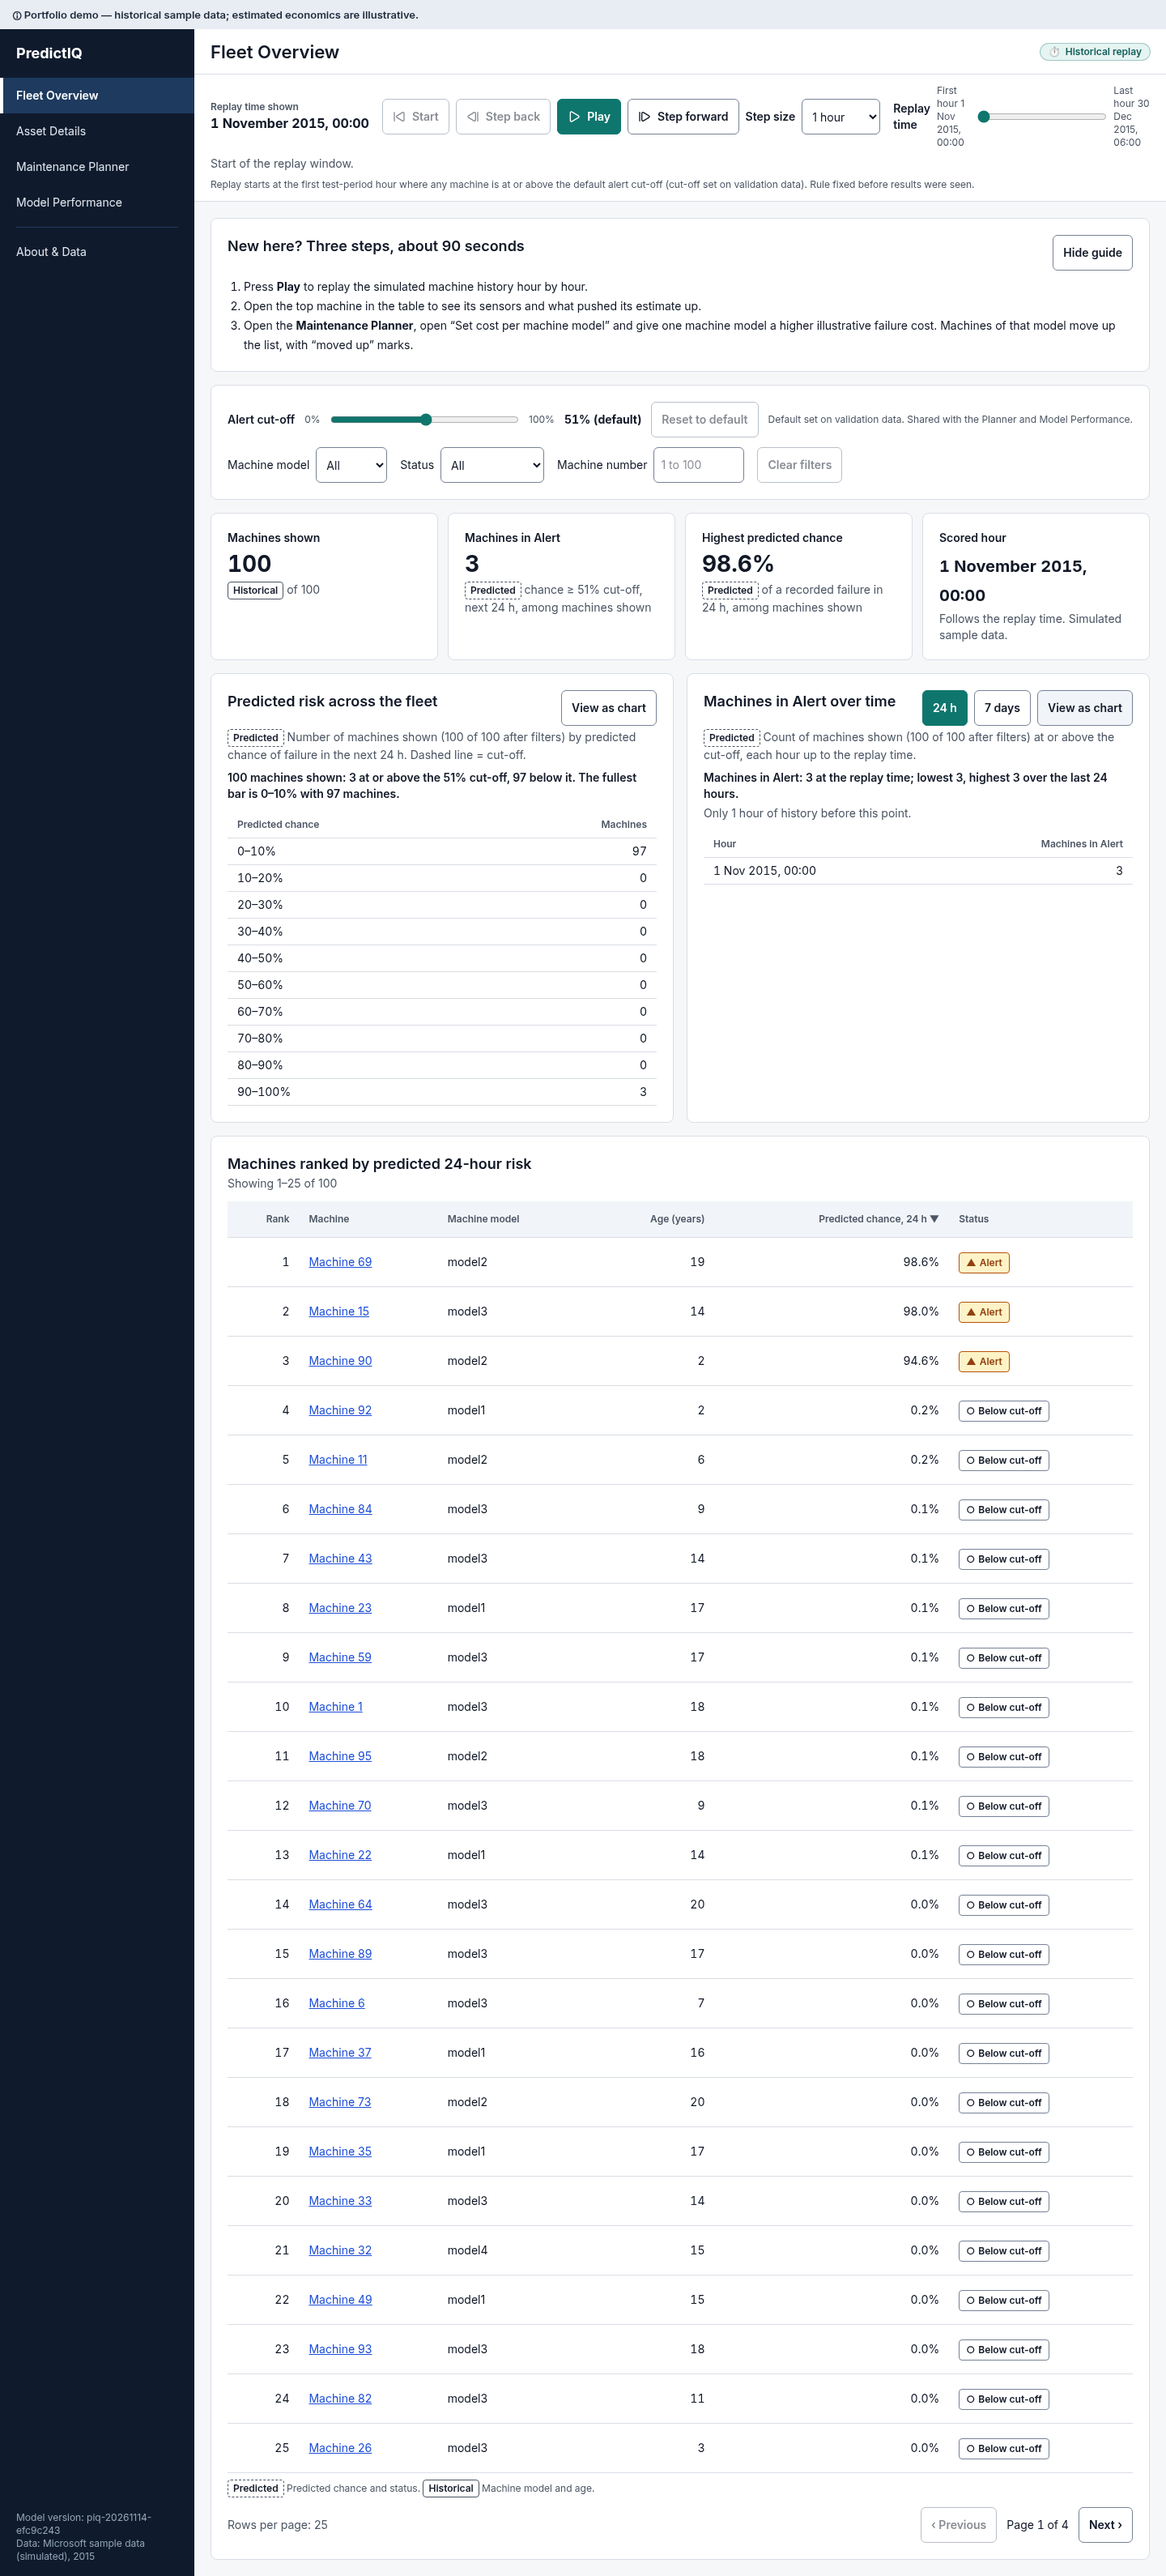
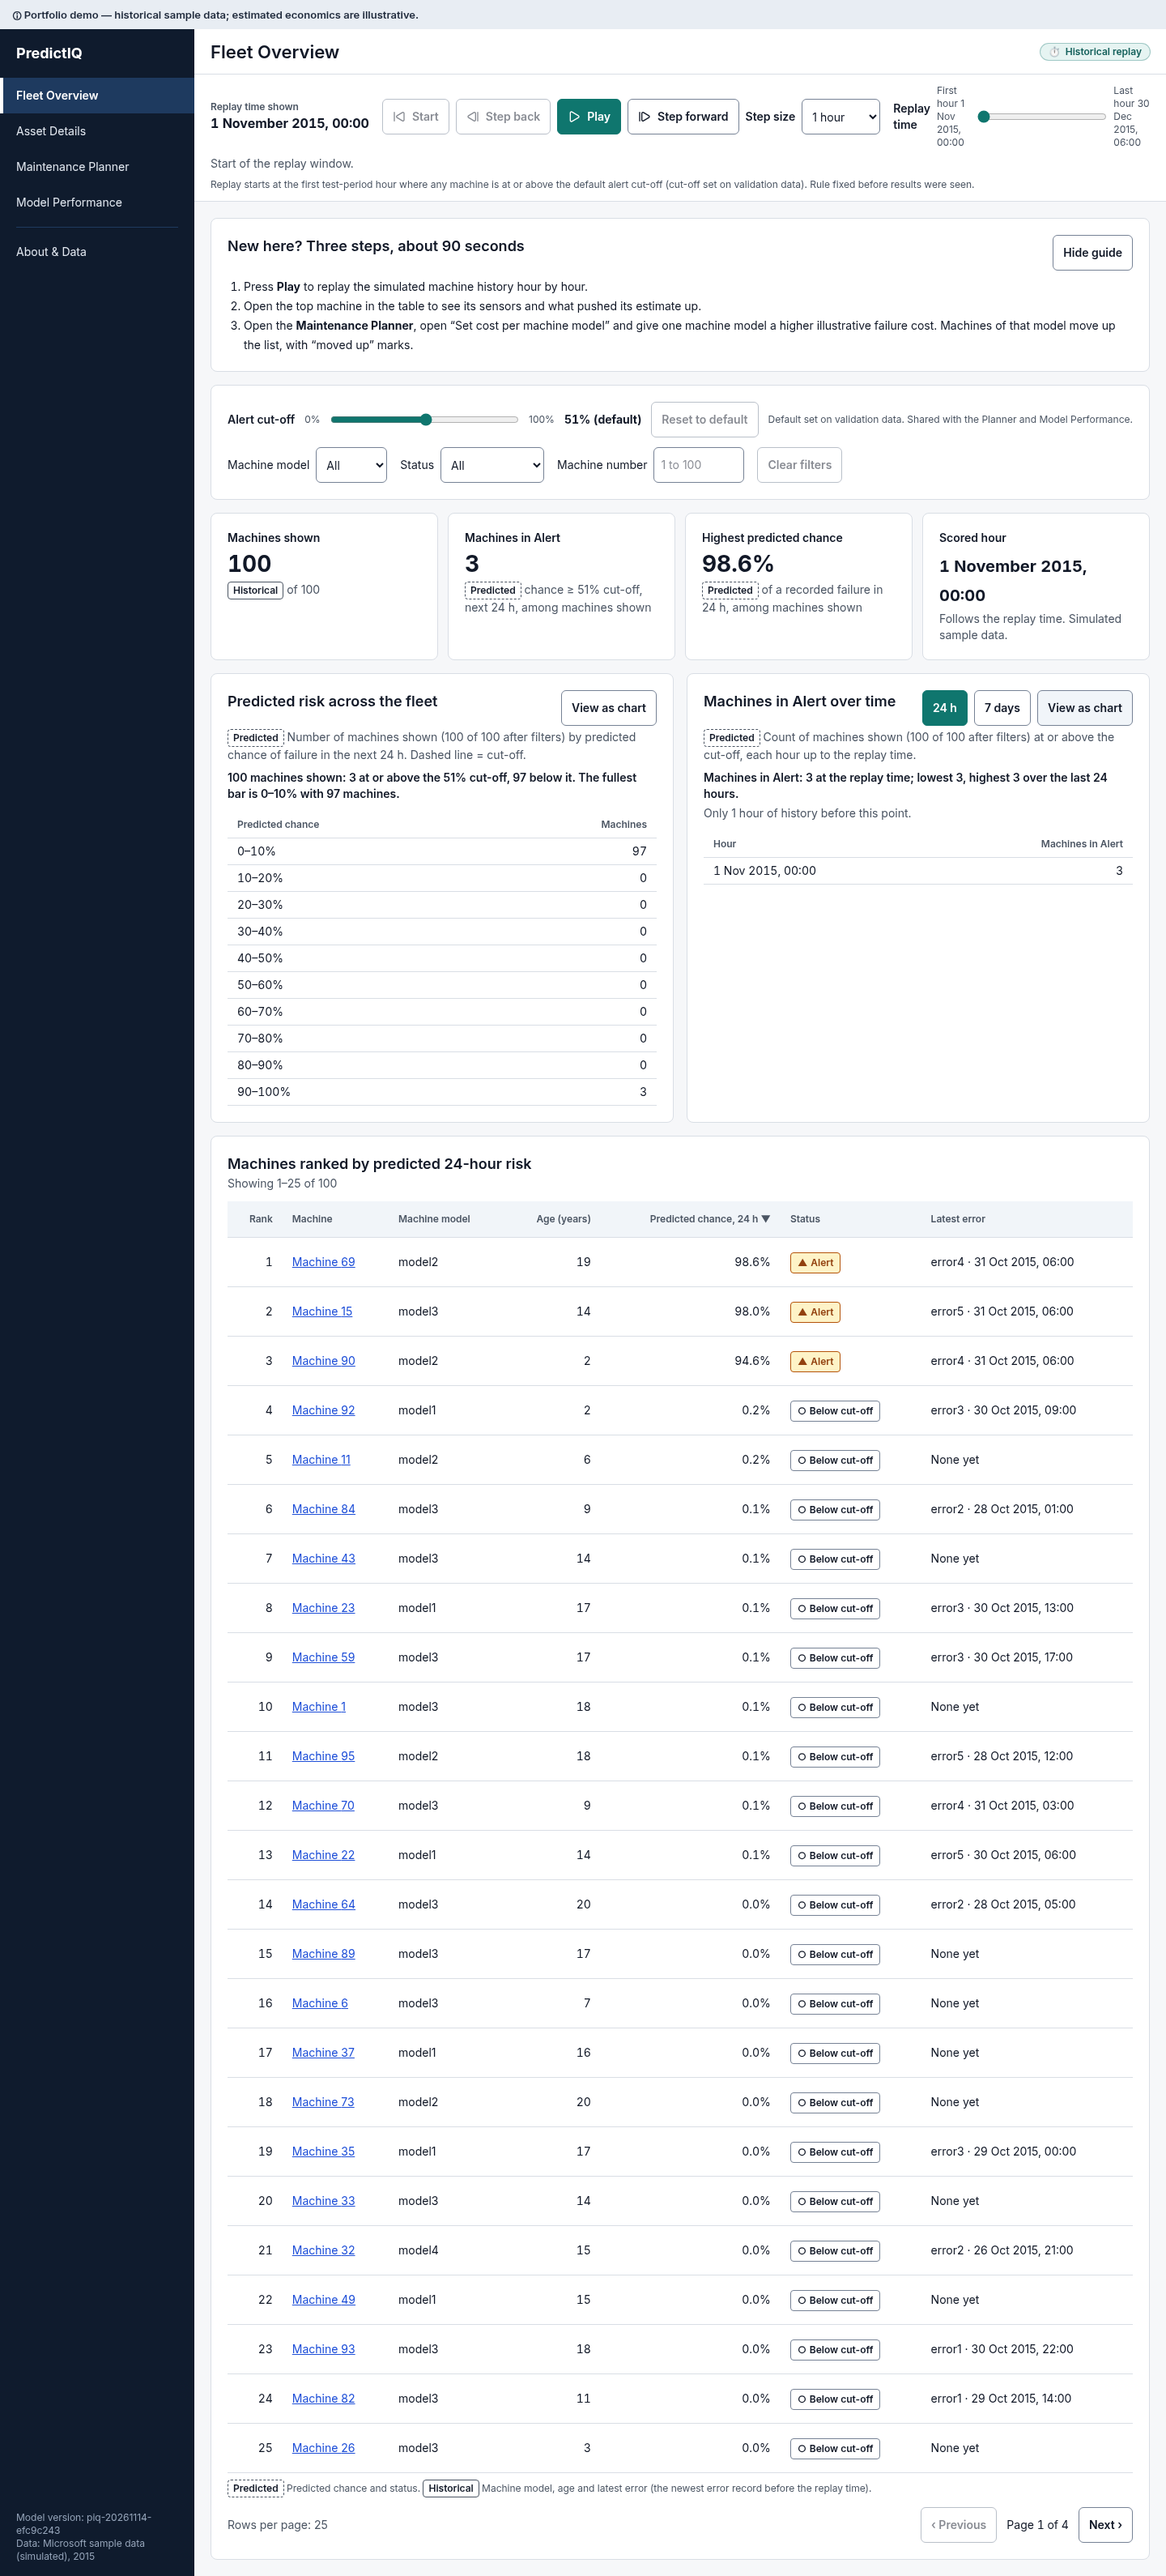
docs and screenshots: full Stage 3 set from the real bundle, README, status and tasks

diff --git a/STATUS.md b/STATUS.md
@@ -1,6 +1,6 @@
 # Status
 
-_Updated 2026-11-14, Stage 3 (core screens) session 1 of 3 done on branch `core-screens`._
+_Updated 2026-11-14, Stage 3 (core screens) session 3 of 3 done on branch `core-screens`._
 
 ## Current stage
 **Data-and-model stage built and reviewed, on branch `data-model`; waiting for the owner to review and merge.** The project skeleton was merged by Meysam (Owner) on 14 Nov 2026 at 8:08 AM ET.
@@ -63,6 +63,23 @@ _Updated 2026-11-14, Stage 3 (core screens) session 1 of 3 done on branch `core-
 - Arrow-key stepping through chart points is not built; the text summary and "View as table" carry the same values.
 - The cut-off control sits on Fleet Overview only for now (Planner and Model Performance will reuse the component).
 **Next:** session 3 (Asset Details body).
+**Blockers:** none.
+
+## Core screens, session 3 of 3: Asset Details, About & Data, latest error (branch `core-screens`, 14 Nov 2026)
+**Done:**
+- **Asset Details** at `/asset-details` on `/assets/{id}`, `/telemetry` and `/explanation`. The machine comes from `?machine=` or the picker (a native list of "Machine n · model", which also does type-ahead); the replay time and cut-off carry over. It shows machine model and age, the predicted chance and status at the replay hour and cut-off, the score factors (top 8 plus "all other inputs combined", each with a plain name, a raises/lowers word, a bar and a signed push in log-odds, an ⓘ definition, and the line "These are patterns the model found in the data, not causes. They are not repair advice." always visible), four sensor charts (24 h / 7 days; markers differ by shape: ◆ recorded failure, ■ repair, ▲ error), past estimates beside recorded failures (labelled simulated, cut-off dashed), and lists of errors, repairs and recorded failures. Every list and chart stops before the replay hour, and the page filters again so a record at or after it can never show. Every chart has a text summary and "View as table"; on a phone the sensors become tabs (arrow keys move between them).
+- **States:** no machine chosen, machine not found (1 to 100 message, selector, link to Fleet), loading (grey blocks), one panel failed with Try again (sensor history, machine record, explanation, each alone), no model data, replay start and end (the replay bar), and "Only n hours of history" at the start.
+- **Fleet "Latest error" column:** the wireframe has it, the experience spec's text does not list table columns, but the bundle has the error records, so I added it. `/fleet` rows gain `latest_error` (newest error type and hour, strictly before `at`, from all records, or null; two errors in one hour: the one recorded last). Tested against the saved records on the synthetic bundle and, opt-in, the real one. Largest `/fleet` answer is 15,452 bytes, far under the 256 KB cap. The table shows it ("None yet" when null).
+- **About & Data** rewritten to the current state: two trained models, saved scores for a held-out later period, Fleet Overview and Asset Details work, Planner and Model Performance not built yet, nothing live. Model version, build date, default cut-off and replay window are read from `/metadata`; "—" with a short note if it can't be read.
+- **Replay control** covered on this screen by e2e: "Historical replay" wording, never "live", clean stop at the end (nothing later, never wraps, Play and Step forward unavailable but focusable), Jump to start, and the start state.
+- **Screenshots:** the full set (Fleet Overview, Asset Details, About & Data) re-taken from the real bundle into `docs/QA_REPORTS/stage3-screenshots/`, with a plain-English `README.md`. `node scripts/screenshots.mjs --real --stage3` makes them.
+**Results (real output, this machine):** frontend lint and typecheck clean; Vitest 103 passed; build passes; Playwright synthetic 45 passed (+2 opt-in skipped) and 7 with no bundle; Playwright real bundle 47 passed (includes `asset-real.spec.ts`: the screen's score, status, model and list sizes equal the API at three machine/hour/cut-off cases); pytest 154 passed (backend and ml; the 9 opt-in real-bundle tests were also run for the backend and pass).
+**Worth knowing:**
+- The e2e data service now starts with `--timeout-keep-alive 75`. Without it, parallel runs sometimes hung for minutes: Next's local proxy and uvicorn both used 5 seconds for idle connections. It only affects the local test stack; Vercel has no such proxy.
+- The service sends 7 days of errors and repairs, so those lists say "7 days" (the wireframe says 90 days for maintenance; not available from the contract).
+- "Back to fleet" returns with the replay time and cut-off but not the table filters or scroll position.
+- Arrow-key stepping through chart points is not built (same as Fleet); summaries and tables carry the values.
+**Next:** Stage 4 (Maintenance Planner), Stage 5 (Model Performance, launch).
 **Blockers:** none.
 
 ## Skeleton story (branch `skeleton`)

diff --git a/docs/QA_REPORTS/stage3-screenshots/README.md b/docs/QA_REPORTS/stage3-screenshots/README.md
@@ -1,0 +1,32 @@
+# Stage 3 screenshots
+
+Taken from the production web build against the real data service and the real model data (simulated sample data), with `node scripts/screenshots.mjs --real --stage3`. Desktop is 1440 px wide, mobile is 390 px. The Asset Details shots use machine 15 at 2 November 2015, 00:00, a machine with a recorded failure, errors and repairs in the week before.
+
+## Fleet Overview
+- `fleet-overview-desktop.png`, `fleet-overview-mobile.png`: the whole screen at the replay start, with the cards, the two charts and the ranked table including the "Latest error" column.
+- `fleet-overview-state-cutoff-changed-*`: the alert cut-off moved by hand; it shows "(custom)" and the note that everything updated together.
+- `fleet-overview-state-empty-*`: filters that match no machine, with Clear filters.
+- `fleet-overview-state-replay-start-*`: the first hour of the replay window; Start and Step back are unavailable, with the reason.
+- `fleet-overview-state-replay-end-*`: the last hour; Play and Step forward are unavailable and "End of the replay window. There is no later data." shows with Jump to start.
+- `fleet-overview-state-charts-as-tables-*`: both charts switched to their table view.
+- `fleet-overview-state-loading-desktop.png`: grey blocks while the fleet answer is on its way.
+- `fleet-overview-state-error-desktop.png`: the fleet request failed; the message says so and offers Try again.
+
+## Asset Details
+- `asset-details-desktop.png`, `asset-details-mobile.png`: one machine in full: facts, predicted chance and status, what pushed the estimate (with the "patterns, not causes" line), four sensor charts, past estimates beside recorded failures, recent errors, repairs and recorded failures. On mobile the sensors are tabs.
+- `asset-details-state-cutoff-changed-*`: the same machine with a lower shared cut-off, so the status tag changes.
+- `asset-details-state-7-days-*`: the charts over 7 days instead of 24 hours.
+- `asset-details-state-charts-as-tables-*`: charts switched to their table view.
+- `asset-details-state-input-definition-desktop.png`: the ⓘ button on one input open, giving its plain meaning and time window.
+- `asset-details-state-rotation-tab-mobile.png`: the Rotation tab chosen on mobile.
+- `asset-details-state-no-machine-*`: no machine chosen: "Choose a machine to see its history and risk", with a selector and a link to Fleet Overview.
+- `asset-details-state-not-found-*`: a machine number outside 1 to 100: "Machine 250 isn't in the sample data."
+- `asset-details-state-loading-desktop.png`: grey blocks while the machine's answers load.
+- `asset-details-state-partial-desktop.png`: the sensor history failed; only that panel shows the error and Try again, the rest of the page stays.
+- `asset-details-state-panel-error-desktop.png`: the "what pushed the estimate" panel failed on its own.
+- `asset-details-state-replay-start-*`: the first replay hour, with the "Only 1 hour of history" note.
+- `asset-details-state-replay-end-*`: the last replay hour, with the end-of-window message.
+
+## About & Data
+- `about-data-desktop.png`, `about-data-mobile.png`: the page with the model version, build date, default cut-off and replay window read from the data service.
+- `about-data-state-metadata-failed-mobile.png`: the data service's facts could not be read; those values show "—" and the rest of the page is still readable.

diff --git a/TASKS.md b/TASKS.md
@@ -1,6 +1,6 @@
 # Tasks
 
-Current stage: **Stage 3, core screens and data service (session 1 of 3 done).**
+Current stage: **Stage 3, core screens and data service (all 3 sessions done; awaiting review).**
 
 ## Done (approved by Meysam (Owner))
 - [x] Gate 0 data check, license accepted, credit line applied (13 Nov 2026, 8:41 PM ET).
@@ -57,7 +57,11 @@ Current stage: **Stage 3, core screens and data service (session 1 of 3 done).**
 ## Stage 3: Core screens and data service (started 14 Nov 2026, branch `core-screens`)
 - [x] Session 1 (foundations): data service contract rules verified and tested, answers-against-saved-scores tests (synthetic in CI, real bundle opt-in), typed web client with `mv` retry, no-model-data / error / loading / waking states, shared address state, historical replay control, end-to-end tests on a real stack (synthetic bundle; opt-in real bundle).
 - [x] Session 2 (14 Nov 2026): Fleet Overview body (cards, charts, table, filters, cut-off control), Vitest, Playwright synthetic and opt-in real-bundle checks, screenshots in `docs/QA_REPORTS/stage3-screenshots/`.
-- [ ] Decide the wireframe's "Latest error" column for the fleet table (needs a `/fleet` field, or drop it).
-- [ ] Session 3: Asset Details body (sensor charts, explanation, events, machine selector and its states).
+- [x] Wireframe's "Latest error" column: added `latest_error` to `/fleet` rows (bundle has the records; tested against saved data; size cap kept) and the table column. The ux-spec text does not list table columns, so the owner may drop it.
+- [x] Session 3 (14 Nov 2026): Asset Details body (sensor charts, explanation, events, machine picker and its states), About & Data text and `/metadata` facts, screenshots re-taken, e2e for Asset Details and the replay control on it.
+- [ ] Low: "Back to fleet" on Asset Details keeps the replay time and cut-off but not the Fleet table filters or scroll position (components list asks for both).
+- [ ] Low: recent maintenance shows 7 days (what `/assets/{id}` sends); the wireframe says 90 days. Widen the contract or change the wireframe.
+- [ ] Low: arrow-key stepping through chart points (components list) is not built on either screen; summaries and "View as table" carry the values.
+- [ ] Low: independent review of Stage 3 (not yet run).
 - [x] Cut-off control built (`components/cutoff-control.tsx`) and used on Fleet Overview; reuse on Planner and Model Performance in their stages.
-- [ ] Update the About & Data status text (still says "skeleton only").
+- [x] Update the About & Data status text.
